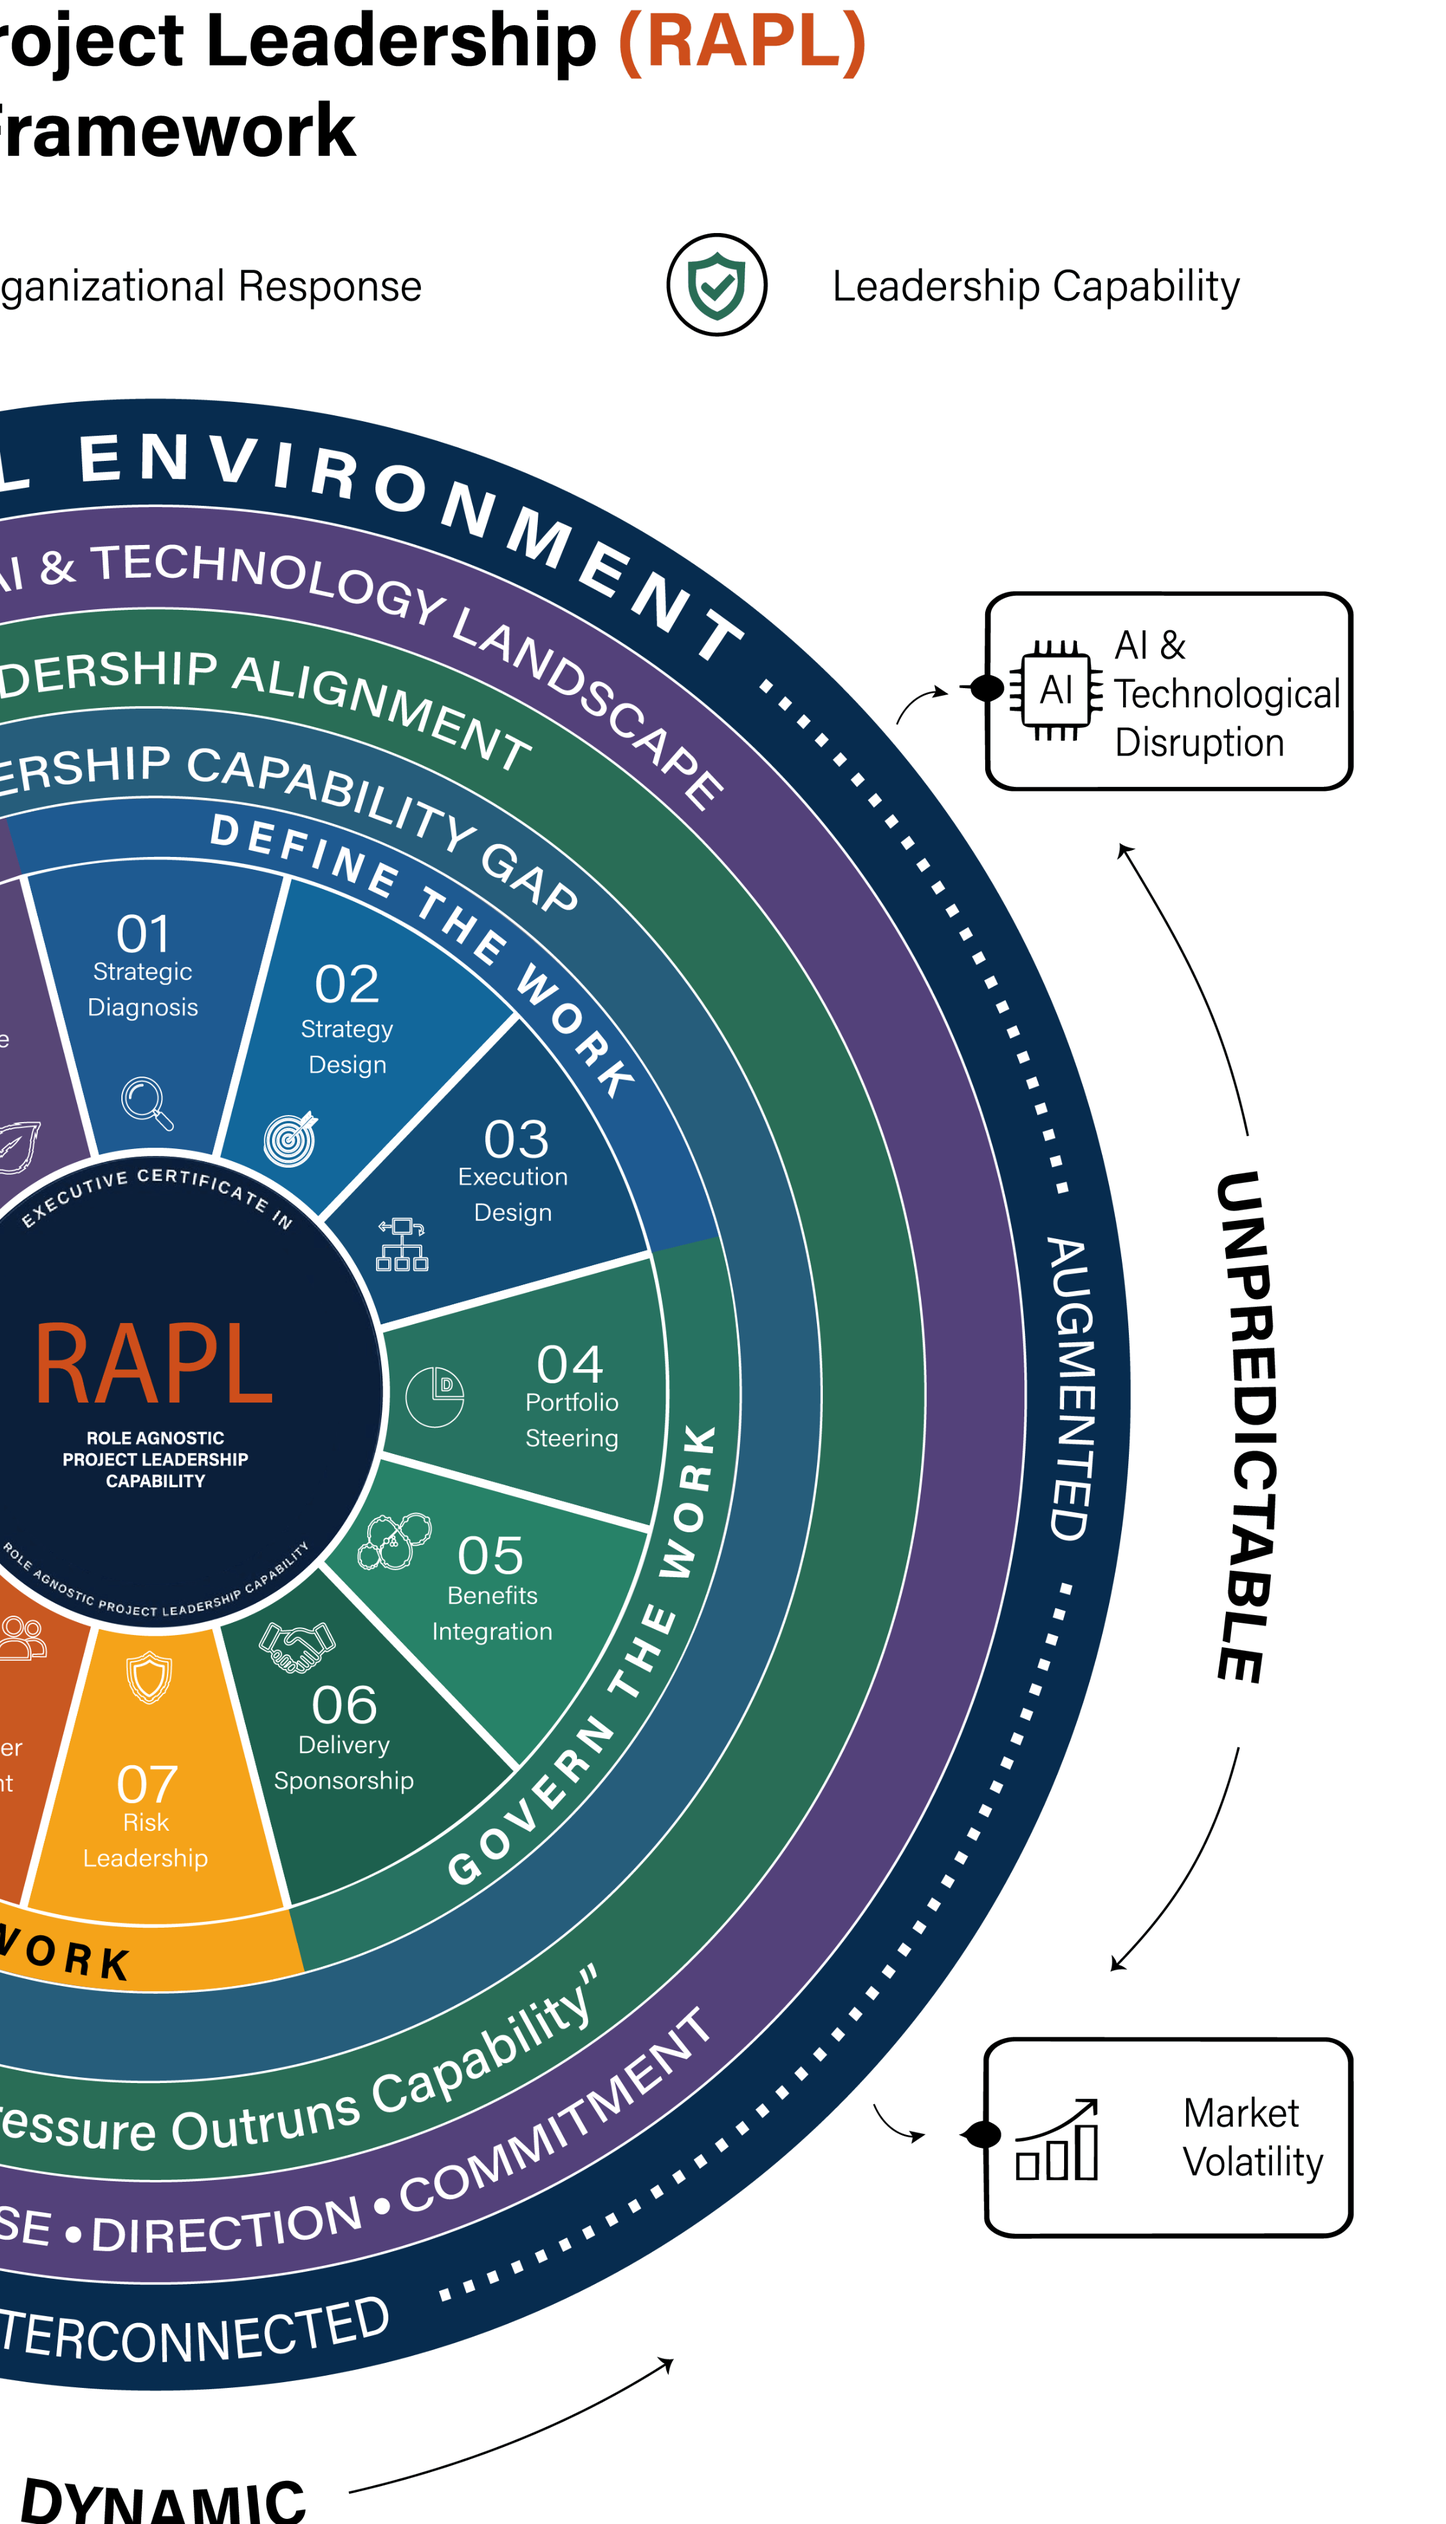
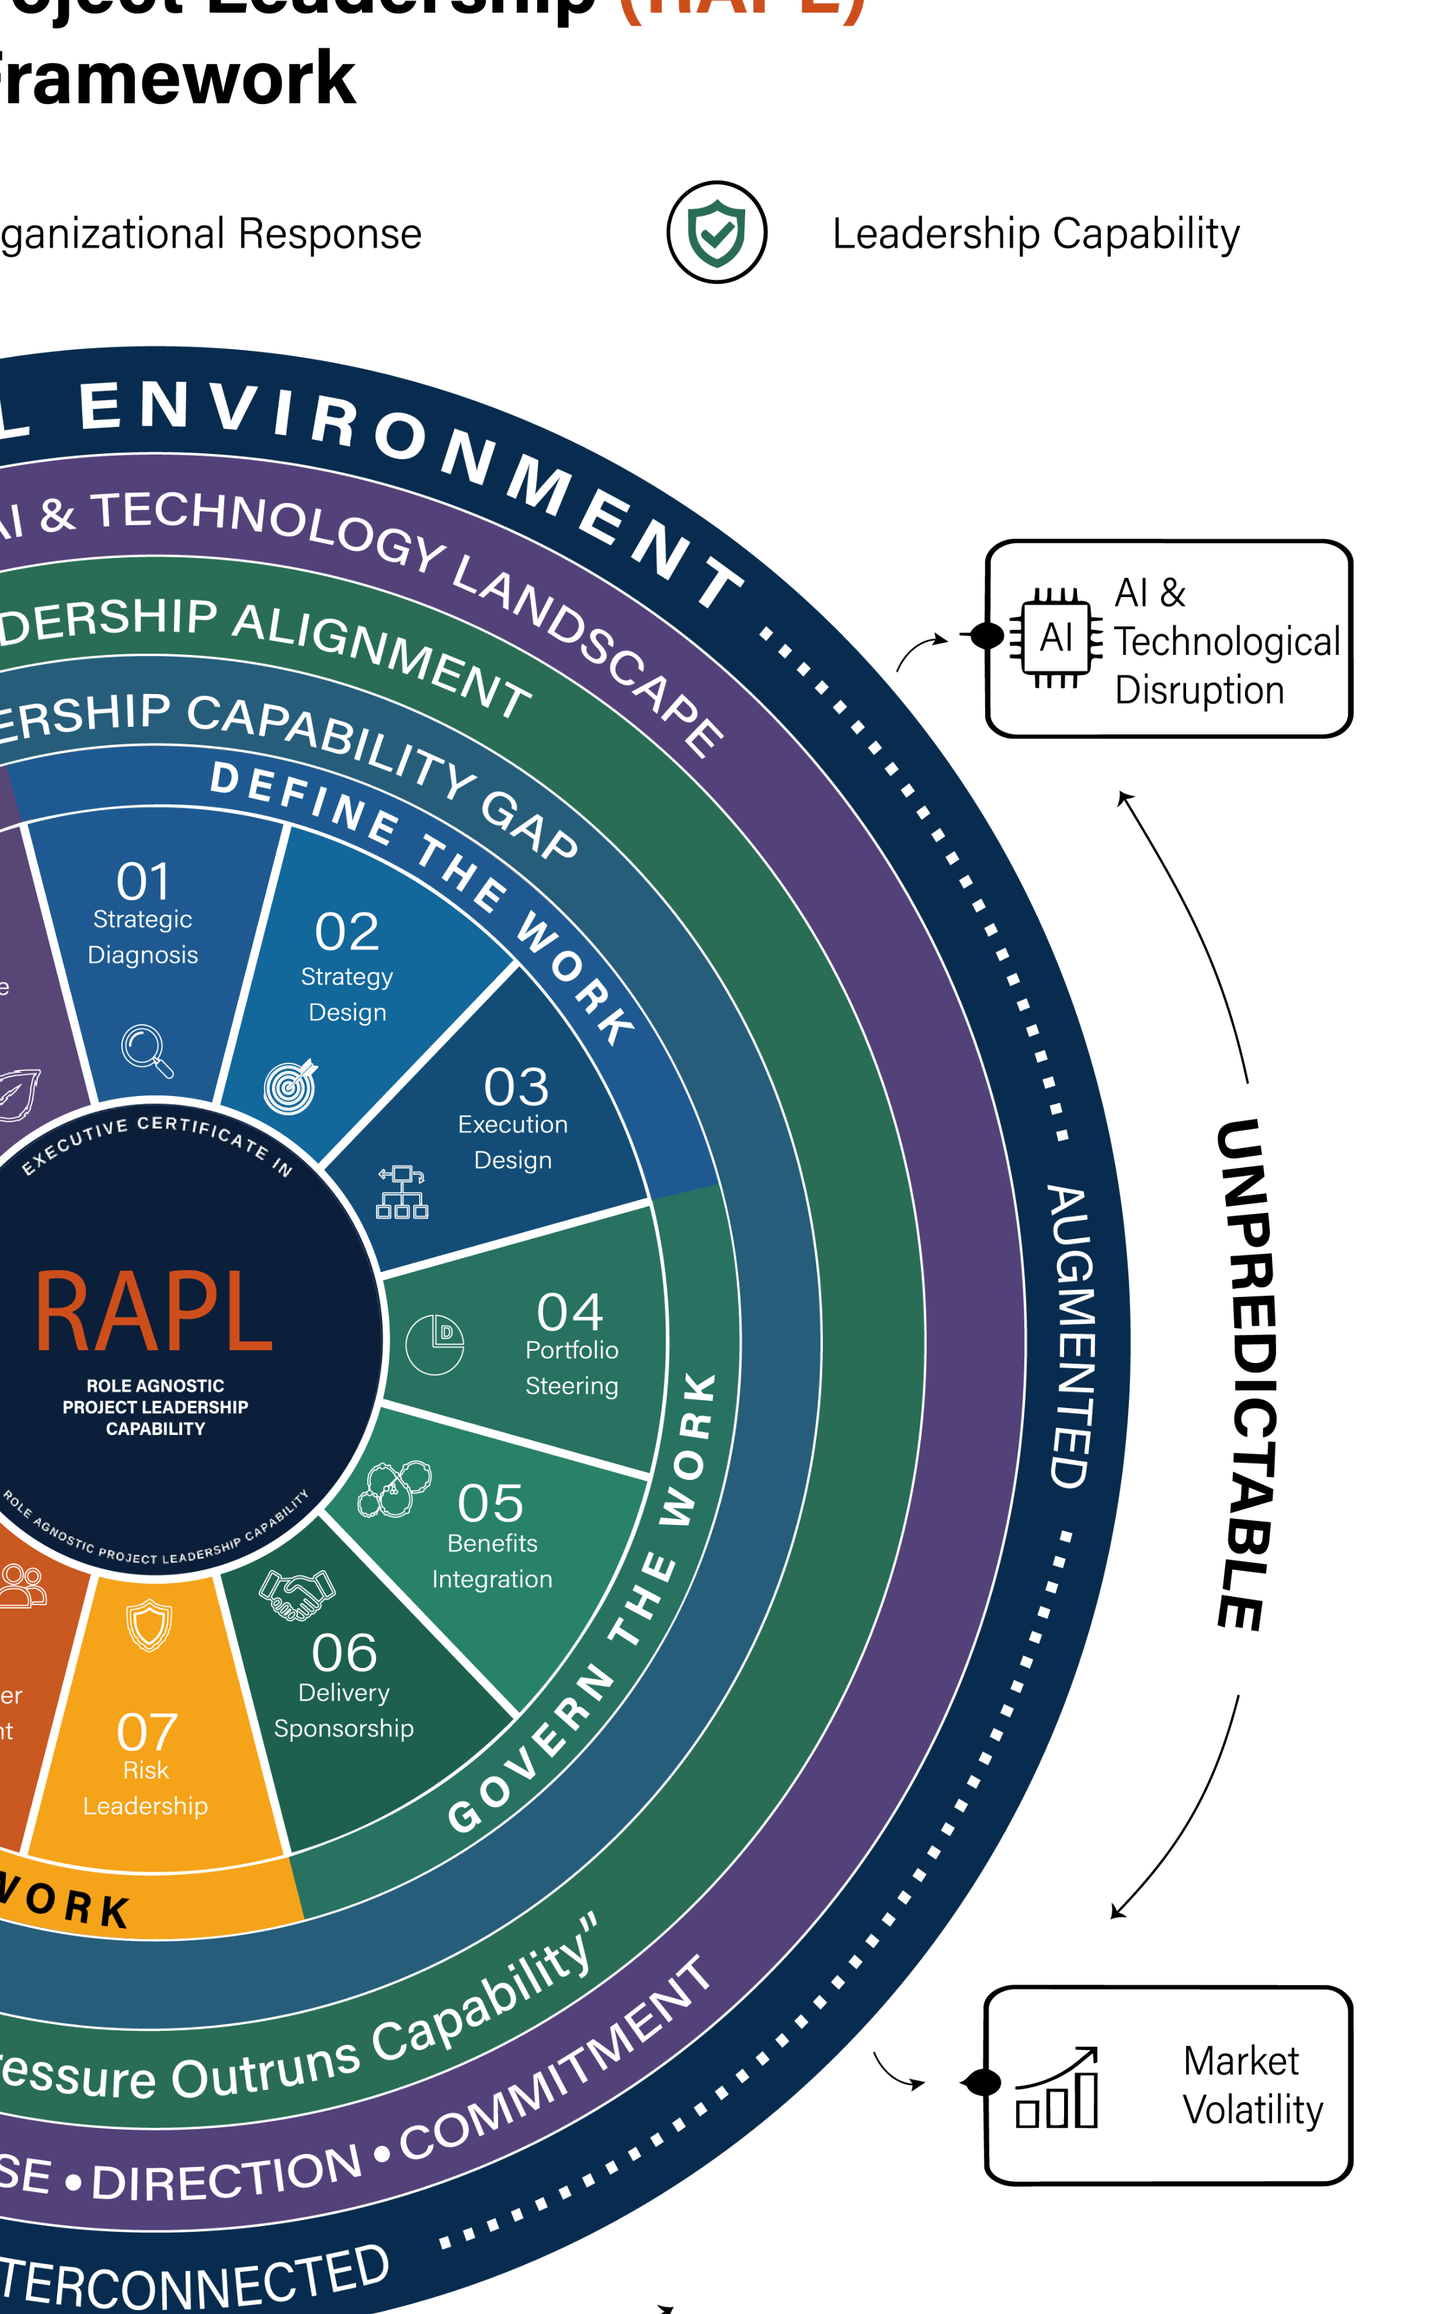
fix: resolve grid column overflow and optimize wheel graphic aspect ratio

diff --git a/src/styles/global.css b/src/styles/global.css
@@ -574,17 +574,16 @@ img {
 
 .framework-title {
   color: #122341;
-  font-size: clamp(2.6rem, 5.5vw, 5rem);
+  font-size: clamp(2.4rem, 4.5vw, 4.5rem);
   font-weight: 700;
   letter-spacing: -0.02em;
-  line-height: 1.05;
+  line-height: 1.08;
   margin: 0.25rem 0 1rem;
-  white-space: nowrap;
 }
 
 .framework-lede {
   margin-top: 1rem;
-  font-size: 1.2rem;
+  font-size: 1.15rem;
   color: #1F2937;
   line-height: 1.5;
   font-weight: 600;
@@ -680,12 +679,15 @@ img {
   display: flex;
   justify-content: center;
   align-items: center;
+  width: 100%;
+  overflow: hidden;
 }
 
 .framework-diagram-img {
   width: 100%;
   max-width: 620px;
   height: auto;
+  object-fit: contain;
   display: block;
 }
 
